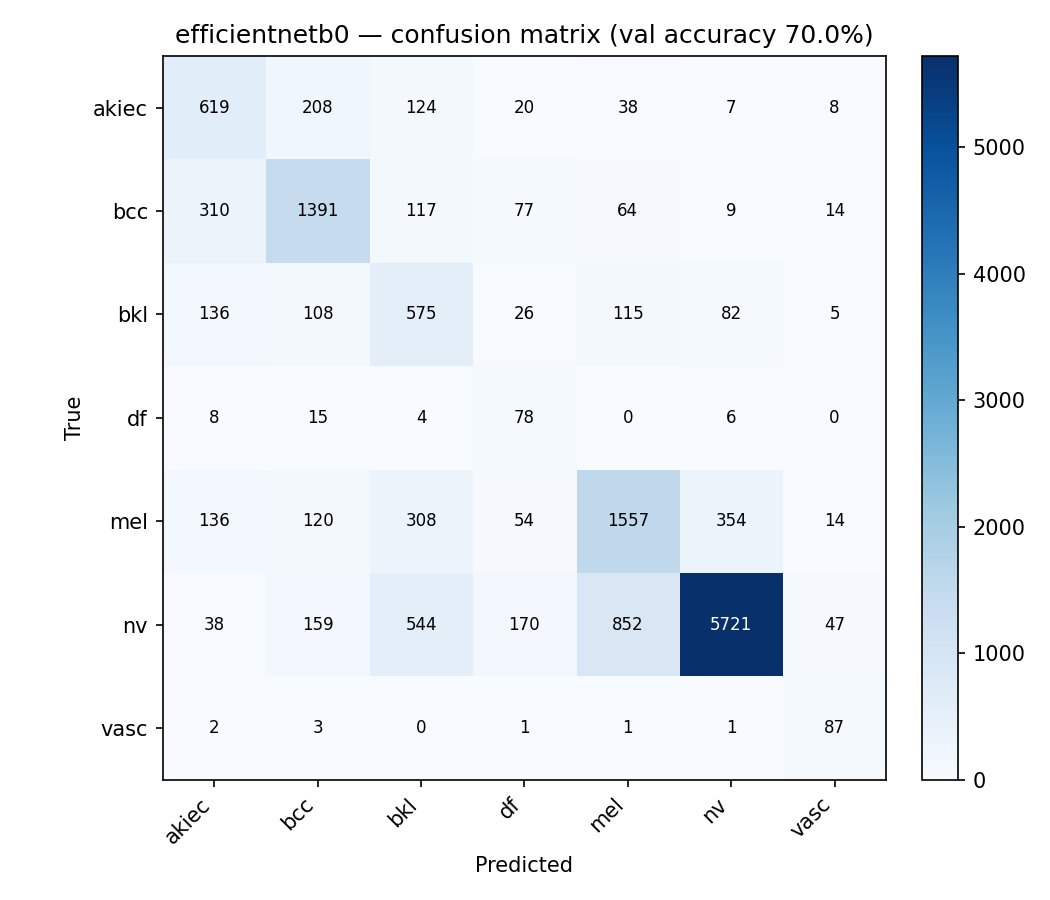
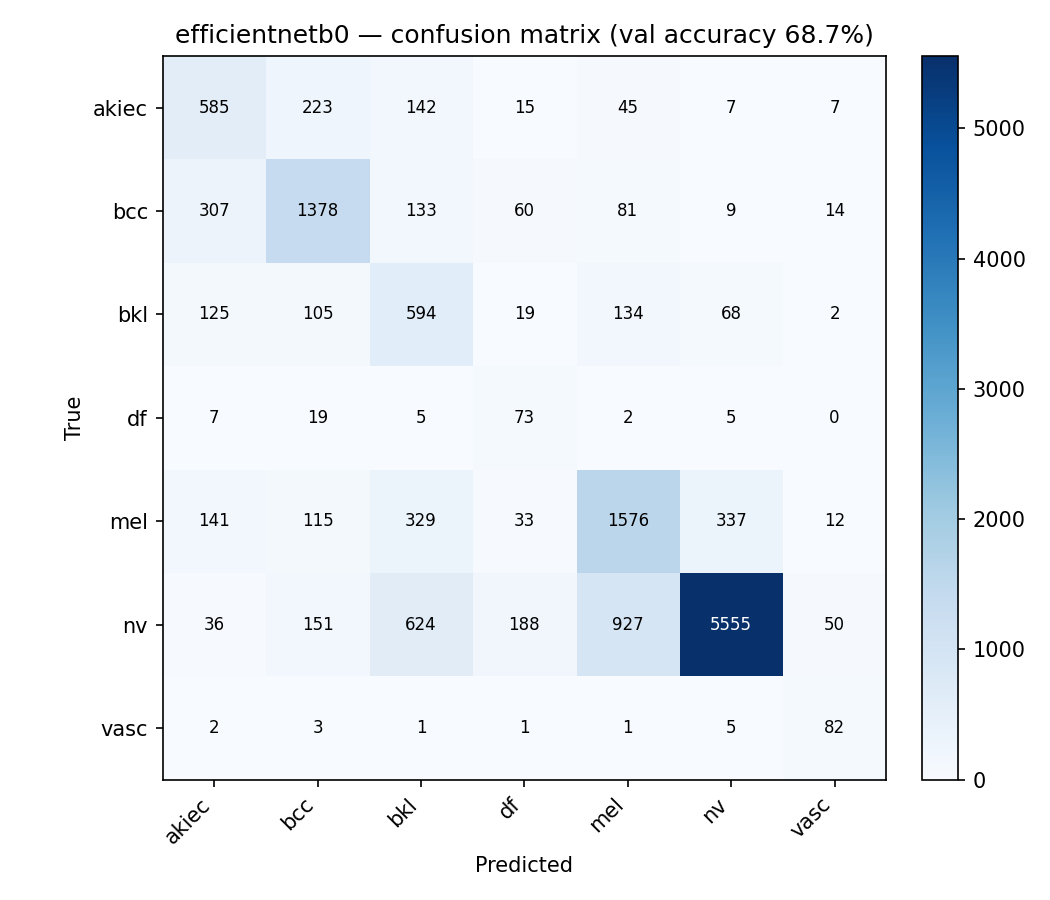
auto commit @Sun Sep 13 15:31:35 BST 2026

diff --git a/scripts/train_model/evaluation_summary.md b/scripts/train_model/evaluation_summary.md
@@ -6,25 +6,25 @@ Class order: `akiec` (Actinic keratoses / intraepithelial carcinoma), `bcc` (Bas
 
 | Model | Val accuracy | Malignant-vs-benign accuracy |
 |---|---|---|
-| mobilenetv2 | 65.478% | 80.255% |
-| efficientnetb0 | 69.964% | 82.258% |
+| mobilenetv2 | 63.636% | 79.990% |
+| efficientnetb0 | 68.674% | 81.790% |
 
 ## mobilenetv2
 
 ```
               precision    recall  f1-score   support
 
-       akiec      0.447     0.518     0.480      1024
-         bcc      0.640     0.734     0.684      1982
-         bkl      0.307     0.440     0.362      1047
-          df      0.114     0.757     0.199       111
-         mel      0.551     0.538     0.544      2543
-          nv      0.918     0.717     0.805      7531
-        vasc      0.314     0.905     0.466        95
+       akiec      0.443     0.561     0.495      1024
+         bcc      0.645     0.694     0.668      1982
+         bkl      0.266     0.497     0.347      1047
+          df      0.123     0.721     0.211       111
+         mel      0.534     0.552     0.543      2543
+          nv      0.926     0.675     0.781      7531
+        vasc      0.458     0.863     0.599        95
 
-    accuracy                          0.655     14333
-   macro avg      0.470     0.658     0.506     14333
-weighted avg      0.726     0.655     0.680     14333
+    accuracy                          0.636     14333
+   macro avg      0.485     0.652     0.520     14333
+weighted avg      0.725     0.636     0.665     14333
 ```
 
 ![confusion matrix for mobilenetv2](confusion_matrix_mobilenetv2.png)
@@ -34,17 +34,17 @@ weighted avg      0.726     0.655     0.680     14333
 ```
               precision    recall  f1-score   support
 
-       akiec      0.496     0.604     0.545      1024
-         bcc      0.694     0.702     0.698      1982
-         bkl      0.344     0.549     0.423      1047
-          df      0.183     0.703     0.291       111
-         mel      0.593     0.612     0.602      2543
-          nv      0.926     0.760     0.835      7531
-        vasc      0.497     0.916     0.644        95
+       akiec      0.486     0.571     0.525      1024
+         bcc      0.691     0.695     0.693      1982
+         bkl      0.325     0.567     0.413      1047
+          df      0.188     0.658     0.292       111
+         mel      0.570     0.620     0.594      2543
+          nv      0.928     0.738     0.822      7531
+        vasc      0.491     0.863     0.626        95
 
-    accuracy                          0.700     14333
-   macro avg      0.533     0.692     0.577     14333
-weighted avg      0.753     0.700     0.718     14333
+    accuracy                          0.687     14333
+   macro avg      0.526     0.673     0.566     14333
+weighted avg      0.747     0.687     0.707     14333
 ```
 
 ![confusion matrix for efficientnetb0](confusion_matrix_efficientnetb0.png)
